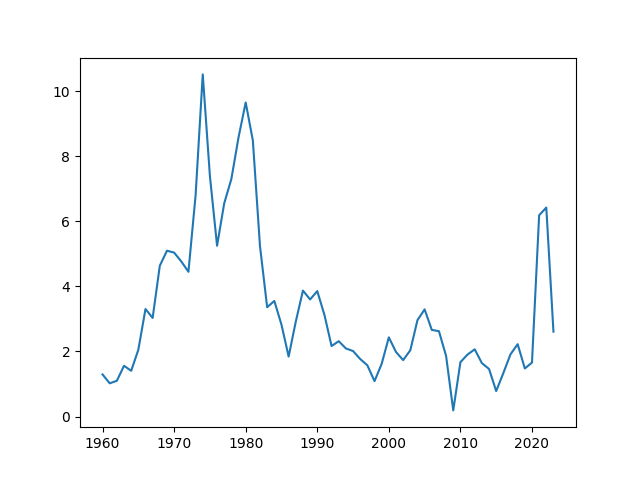
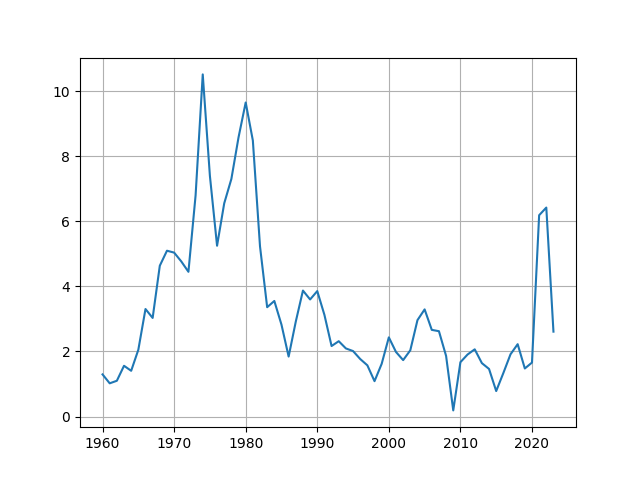
add grid to inflation

diff --git a/analysis.py b/analysis.py
@@ -45,7 +45,7 @@ def question_one_b():
     # save to file
     ax.get_figure().savefig('answers/gdp_growth.png')
 
-question_one_b()
+# question_one_b()
     
 question_two = """
 (a) Make a figure of the inflation rate from 1959Q1 to 2023Q4.
@@ -69,9 +69,13 @@ def question_two_a():
         inflation_series[year] = inflation
     # plot and save to file
     inflation_series = pd.Series(inflation_series)
-    inflation_series.plot().get_figure().savefig('answers/inflation.png')
+    ax = inflation_series.plot()
+    # add grid
+    ax.grid()
+    # save to file
+    ax.get_figure().savefig('answers/inflation.png')
 
-# question_two_a()
+question_two_a()
     
 def question_two_b():
     # read data
